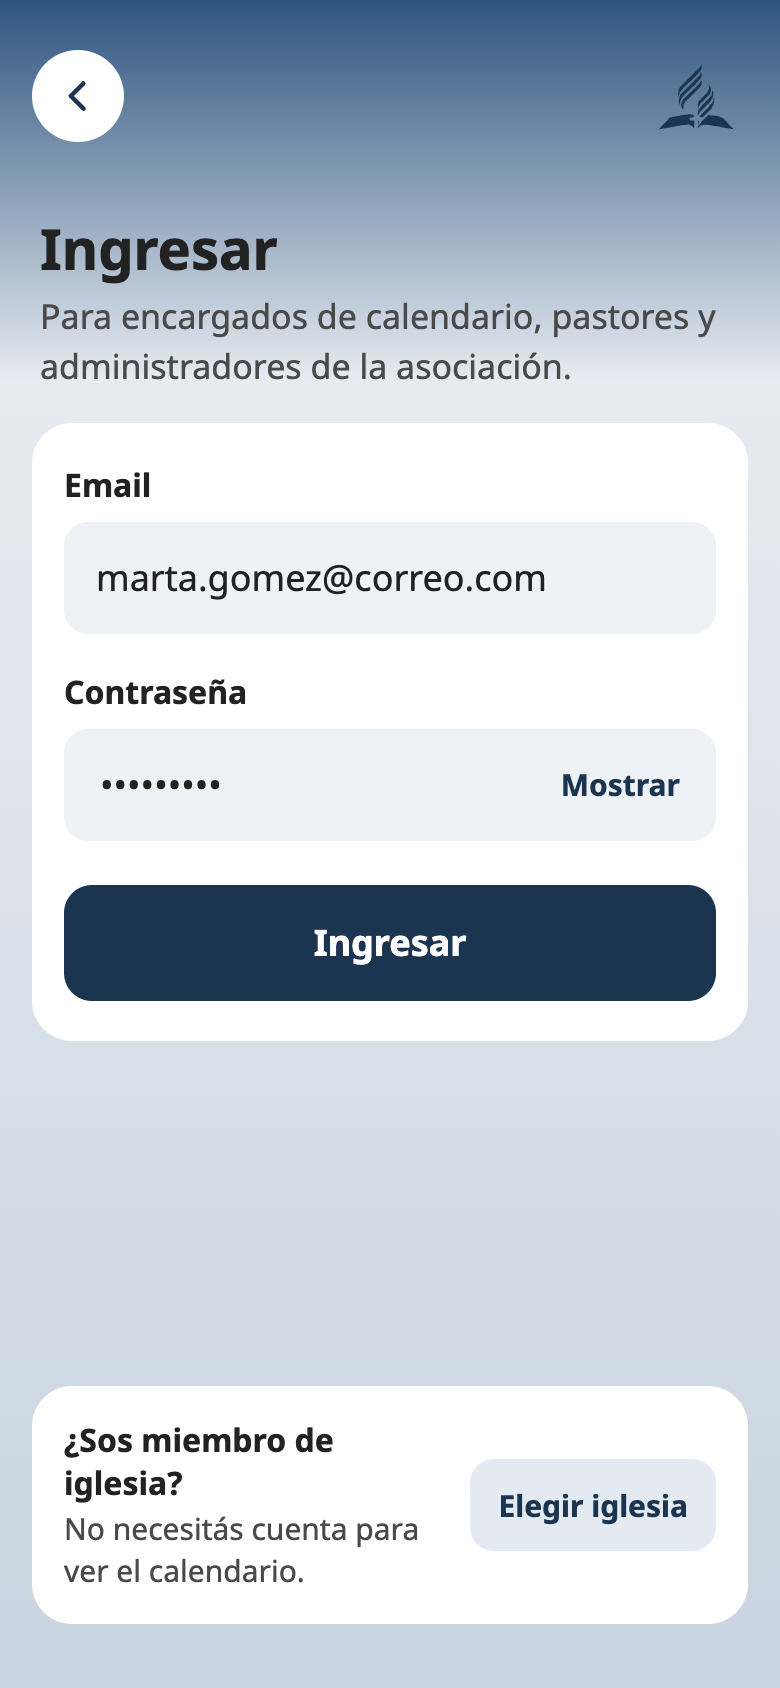
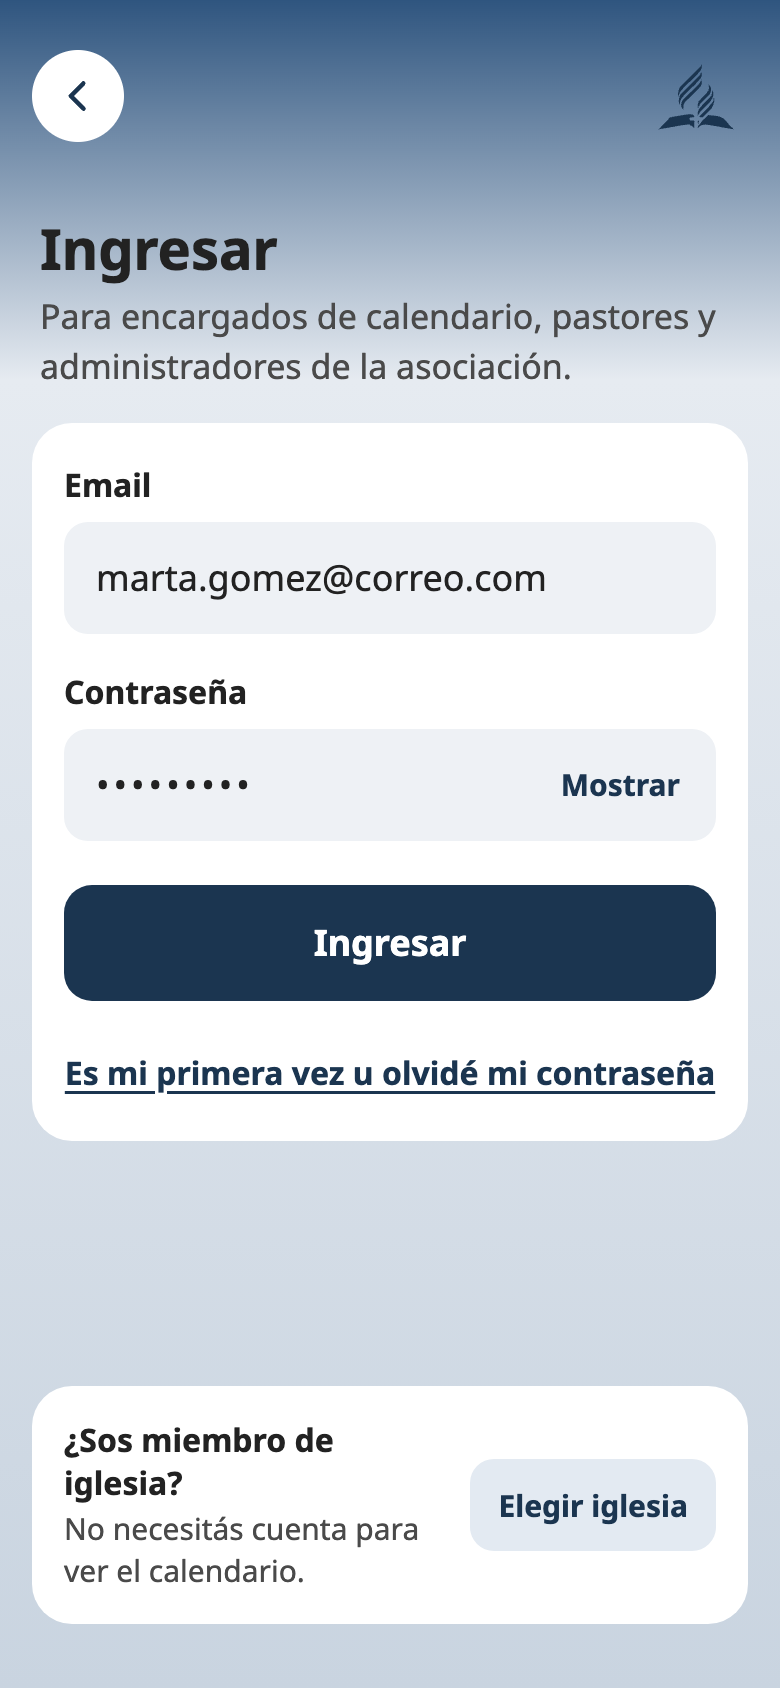
docs(diseno): add the first-access and recovery flow to Login (#37)
- Add the link "Es mi primera vez u olvidé mi contraseña" to Login.
- Add 02b-elegir-contrasena.html with its three steps: correo, 6-digit code
  and contraseña, with their captures.

Changed region(s): [[0.0308, 0.5853, 0.9846, 0.6777], [0.2462, 0.4621, 0.2769, 0.4929], [0.1846, 0.4621, 0.2154, 0.4929]]

diff --git a/diseno/pantallas/02b-elegir-contrasena.html b/diseno/pantallas/02b-elegir-contrasena.html
@@ -1,0 +1,109 @@
+<!doctype html>
+<html lang="es">
+<head>
+<meta charset="utf-8">
+<title>Elegir mi contraseña</title>
+<script src="./support.js"></script>
+</head>
+<body>
+<x-dc>
+<helmet>
+<link rel="stylesheet" href="https://fonts.googleapis.com/css2?family=Noto+Sans:wght@400;600;700&amp;family=Oswald:wght@500;600&amp;display=swap">
+<style>
+body{margin:0;font-family:'Noto Sans','Segoe UI',system-ui,sans-serif;color:#222222}
+a{color:#1B3550}a:hover{color:#10233A}
+</style>
+</helmet>
+<div style="width: 390px; height: 844px; box-sizing: border-box; background: linear-gradient(180deg, #2F557F 0px, #E6EBF1 190px, #C9D4E0 100%); display: flex; flex-direction: column; font-family: 'Noto Sans', 'Segoe UI', system-ui, sans-serif; color: #222222">
+
+  <header style="flex-shrink: 0; padding: 22px 16px 0; display: flex; align-items: center; gap: 12px">
+    <a href="Login.dc.html" aria-label="Volver" style="width: 46px; height: 46px; flex-shrink: 0; border-radius: 50%; background: #FFFFFF; display: flex; align-items: center; justify-content: center; color: #1B3550"><svg width="22" height="22" viewBox="0 0 24 24" fill="none" stroke="currentColor" stroke-width="2.4" stroke-linecap="round" stroke-linejoin="round"><path d="M15 5l-7 7 7 7"></path></svg></a>
+    <span style="flex: 1"></span>
+    <div style="width: 52px; height: 52px; display: flex; align-items: center; justify-content: center"><svg viewBox="0 0 329 295" width="38" height="34" role="img" aria-label="Iglesia Adventista del Séptimo Día" style="display: block; color: #1B3550"><path fill="currentColor" fill-rule="evenodd" d="M176.12 254.25C175.33 254.10 173.25 254.50 173.25 254.50C173.25 254.50 171.94 254.46 171.88 256.75C171.81 259.04 172.88 268.25 172.88 268.25C172.88 268.25 174.23 267.56 175.12 265.75C176.02 263.94 177.77 259.10 178.25 257.38C178.73 255.65 178.00 255.38 178.00 255.38C178.00 255.38 176.92 254.40 176.12 254.25ZM172.12 283.75C171.73 286.06 173.62 288.62 173.62 288.62C173.62 288.62 174.69 285.44 176.88 283.25C179.06 281.06 182.85 277.40 186.75 275.50C190.65 273.60 197.06 272.50 200.25 271.88C203.44 271.25 200.25 271.19 205.88 271.75C211.50 272.31 215.17 272.10 234.00 275.25C252.83 278.40 303.73 288.21 318.88 290.62C334.02 293.04 324.88 289.75 324.88 289.75C324.88 289.75 325.92 288.98 323.88 286.88C321.83 284.77 320.56 284.90 312.62 277.12C304.69 269.35 291.44 248.02 276.25 240.25C261.06 232.48 231.19 232.08 221.50 230.50C211.81 228.92 219.60 230.04 218.12 230.75C216.65 231.46 214.19 233.23 212.62 234.75C211.06 236.27 211.65 237.00 208.75 239.88C205.85 242.75 200.71 246.19 195.25 252.00C189.79 257.81 179.85 269.46 176.00 274.75C172.15 280.04 172.52 281.44 172.12 283.75ZM157.00 235.38C156.50 234.25 155.42 232.35 154.00 231.12C152.58 229.90 151.38 228.77 148.50 228.00C145.62 227.23 144.33 225.98 136.75 226.50C129.17 227.02 116.60 228.88 103.00 231.12C89.40 233.38 65.33 236.62 55.12 240.00C44.92 243.38 48.75 244.71 41.75 251.38C34.75 258.04 19.25 273.56 13.12 280.00C7.00 286.44 5.00 290.00 5.00 290.00C5.00 290.00 -9.65 293.77 9.75 290.75C29.15 287.73 99.94 274.73 121.38 271.88C142.81 269.02 134.25 272.60 138.38 273.62C142.50 274.65 143.00 275.60 146.12 278.00C149.25 280.40 157.12 288.00 157.12 288.00C157.12 288.00 157.50 256.00 157.50 256.00C157.50 256.00 157.31 254.48 154.38 254.12C151.44 253.77 139.88 253.88 139.88 253.88C139.88 253.88 136.92 251.85 136.62 249.62C136.33 247.40 138.12 240.50 138.12 240.50C138.12 240.50 151.85 240.19 155.00 239.75C158.15 239.31 156.67 238.60 157.00 237.88C157.33 237.15 157.50 236.50 157.00 235.38ZM242.38 155.75C242.38 155.75 241.00 156.12 241.00 156.12C241.00 156.12 240.75 164.04 239.38 167.75C238.00 171.46 236.25 173.71 232.75 178.38C229.25 183.04 227.04 186.50 218.38 195.75C209.71 205.00 187.21 226.85 180.75 233.88C174.29 240.90 179.60 236.88 179.62 237.88C179.65 238.88 180.88 239.88 180.88 239.88C180.88 239.88 188.73 239.69 191.25 239.25C193.77 238.81 189.35 243.58 196.00 237.25C202.65 230.92 223.96 209.58 231.12 201.25C238.29 192.92 237.00 191.71 239.00 187.25C241.00 182.79 242.31 178.75 243.12 174.50C243.94 170.25 244.00 164.88 243.88 161.75C243.75 158.62 242.38 155.75 242.38 155.75ZM236.12 122.50C236.12 122.50 234.75 122.75 234.75 122.75C234.75 122.75 234.54 133.12 233.12 138.00C231.71 142.88 233.73 143.15 226.25 152.00C218.77 160.85 196.56 182.04 188.25 191.12C179.94 200.21 179.04 202.38 176.38 206.50C173.71 210.62 173.02 212.44 172.25 215.88C171.48 219.31 171.62 224.29 171.75 227.12C171.88 229.96 173.00 232.88 173.00 232.88C173.00 232.88 177.90 223.33 181.38 218.62C184.85 213.92 187.54 211.06 193.88 204.62C200.21 198.19 212.56 187.73 219.38 180.00C226.19 172.27 231.62 163.06 234.75 158.25C237.88 153.44 237.31 154.19 238.12 151.12C238.94 148.06 239.67 144.23 239.62 139.88C239.58 135.52 238.46 127.90 237.88 125.00C237.29 122.10 236.12 122.50 236.12 122.50ZM218.38 97.25C218.38 97.25 220.46 108.48 220.62 112.25C220.79 116.02 220.96 116.31 219.38 119.88C217.79 123.44 216.17 127.69 211.12 133.62C206.08 139.56 194.92 149.19 189.12 155.50C183.33 161.81 179.21 167.10 176.38 171.50C173.54 175.90 172.90 178.04 172.12 181.88C171.35 185.71 171.58 191.50 171.75 194.50C171.92 197.50 173.12 199.88 173.12 199.88C173.12 199.88 176.67 190.90 179.88 186.25C183.08 181.60 185.92 178.65 192.38 172.00C198.83 165.35 213.02 152.52 218.62 146.38C224.23 140.23 224.25 138.56 226.00 135.12C227.75 131.69 228.60 129.58 229.12 125.75C229.65 121.92 229.96 116.04 229.12 112.12C228.29 108.21 225.92 104.73 224.12 102.25C222.33 99.77 218.38 97.25 218.38 97.25ZM189.00 74.88C189.00 74.88 188.65 82.38 176.50 95.75C164.35 109.12 127.85 143.19 116.12 155.12C104.40 167.06 108.67 163.12 106.12 167.38C103.58 171.62 101.90 177.17 100.88 180.62C99.85 184.08 99.69 184.98 100.00 188.12C100.31 191.27 101.25 196.38 102.75 199.50C104.25 202.62 109.00 206.88 109.00 206.88C109.00 206.88 110.62 205.75 110.62 205.75C110.62 205.75 109.65 203.31 109.62 200.25C109.60 197.19 109.77 190.85 110.50 187.38C111.23 183.90 112.44 182.02 114.00 179.38C115.56 176.73 109.60 182.06 119.88 171.50C130.15 160.94 164.48 127.79 175.62 116.00C186.77 104.21 184.40 104.85 186.75 100.75C189.10 96.65 189.38 95.69 189.75 91.38C190.12 87.06 189.00 74.88 189.00 74.88ZM189.38 41.12C189.38 41.12 189.46 47.08 175.12 62.75C160.79 78.42 117.27 119.65 103.38 135.12C89.48 150.60 94.00 149.40 91.75 155.62C89.50 161.85 89.69 167.65 89.88 172.50C90.06 177.35 92.88 184.75 92.88 184.75C92.88 184.75 94.88 183.62 94.88 183.62C94.88 183.62 95.42 174.31 96.00 171.25C96.58 168.19 96.31 168.88 98.38 165.25C100.44 161.62 97.19 161.67 108.38 149.50C119.56 137.33 153.08 105.00 165.50 92.25C177.92 79.50 179.21 77.46 182.88 73.00C186.54 68.54 186.35 67.98 187.50 65.50C188.65 63.02 189.44 62.19 189.75 58.12C190.06 54.06 189.38 41.12 189.38 41.12ZM189.25 7.25C189.25 7.25 192.85 9.81 177.62 26.38C162.40 42.94 112.02 91.88 97.88 106.62C83.73 121.38 94.71 109.98 92.75 114.88C90.79 119.77 87.02 129.94 86.12 136.00C85.23 142.06 87.38 151.25 87.38 151.25C87.38 151.25 90.12 140.71 93.12 135.12C96.12 129.54 92.33 131.62 105.38 117.75C118.42 103.88 157.88 65.94 171.38 51.88C184.88 37.81 183.29 38.29 186.38 33.38C189.46 28.46 189.40 26.73 189.88 22.38C190.35 18.02 189.25 7.25 189.25 7.25Z"></path></svg></div>
+  </header>
+
+  <div style="flex: 1; display: flex; flex-direction: column; gap: 16px; padding: 28px 16px 32px">
+    <div style="display: flex; flex-direction: column; gap: 6px; padding: 0 4px">
+      <span style="font-size: 15px; font-weight: 700; color: #2F557F">Paso {{ paso }} de 3</span>
+      <h1 style="margin: 0; font-size: 28px; line-height: 1.15; font-weight: 700">{{ titulo }}</h1>
+      <p style="margin: 0; font-size: 17px; line-height: 1.45; color: #4A4A4A">{{ texto }}</p>
+    </div>
+
+    <form style="display: flex; flex-direction: column; gap: 14px; padding: 20px 16px; border-radius: 20px; background: #FFFFFF">
+      <!-- Step 1: the correo. The request never tells whether the correo is registered. -->
+      <sc-if value="{{ paso1 }}" hint-placeholder-val="{{ true }}">
+        <div style="display: flex; flex-direction: column; gap: 8px">
+          <label for="email" style="font-size: 16px; font-weight: 700">Email</label>
+          <input id="email" type="email" value="marta.gomez@correo.com" autocomplete="email" style="height: 56px; box-sizing: border-box; border: 0; border-radius: 12px; background: #EEF1F5; padding: 0 16px; font-size: 18px; font-family: inherit; color: #222222">
+        </div>
+        <span style="font-size: 15px; line-height: 1.45; color: #4A4A4A">Usá el correo que le diste a tu iglesia o a la asociación.</span>
+      </sc-if>
+
+      <!-- Step 2: the 6-digit code, one box per digit. -->
+      <sc-if value="{{ paso2 }}" hint-placeholder-val="{{ false }}">
+        <div role="group" aria-labelledby="tCodigo" style="display: flex; flex-direction: column; gap: 8px">
+          <span id="tCodigo" style="font-size: 16px; font-weight: 700">Código</span>
+          <div style="display: flex; justify-content: space-between">
+            <sc-for list="{{ casillas }}" as="c" hint-placeholder-count="6">
+              <input type="text" inputmode="numeric" maxlength="1" value="{{ c.d }}" aria-label="Dígito {{ c.n }}" style="width: 46px; height: 58px; box-sizing: border-box; border: {{ c.borde }}; border-radius: 12px; background: #EEF1F5; text-align: center; font-size: 24px; font-weight: 700; font-family: inherit; color: #222222">
+            </sc-for>
+          </div>
+        </div>
+        <button type="button" style="align-self: center; min-height: 44px; border: 0; background: transparent; font-family: inherit; font-size: 16px; font-weight: 700; color: #1B3550; text-decoration: underline; text-underline-offset: 3px; cursor: pointer">No me llegó, mandarlo de nuevo</button>
+      </sc-if>
+
+      <!-- Step 3: the contraseña. Only a minimum of 8 characters; no repeat field, Mostrar/Ocultar instead. -->
+      <sc-if value="{{ paso3 }}" hint-placeholder-val="{{ false }}">
+        <div style="display: flex; flex-direction: column; gap: 8px">
+          <label for="pass" style="font-size: 16px; font-weight: 700">Contraseña nueva</label>
+          <div style="display: flex; align-items: center; height: 56px; box-sizing: border-box; border-radius: 12px; background: #EEF1F5; padding: 0 6px 0 16px; gap: 8px">
+            <input id="pass" type="{{ passType }}" value="abril2026" autocomplete="new-password" style="flex: 1; min-width: 0; border: 0; outline: none; background: transparent; font-size: 18px; font-family: inherit; color: #222222">
+            <button type="button" onClick="{{ toggle }}" style="min-height: 44px; padding: 0 12px; border: 0; background: transparent; font-family: inherit; font-size: 15px; font-weight: 700; color: #1B3550; cursor: pointer">{{ toggleLabel }}</button>
+          </div>
+        </div>
+        <span style="font-size: 15px; line-height: 1.45; color: #4A4A4A">Al menos 8 caracteres. No hace falta usar mayúsculas ni símbolos.</span>
+      </sc-if>
+
+      <sc-if value="{{ hayError }}" hint-placeholder-val="{{ false }}">
+        <span role="alert" style="font-size: 15px; line-height: 1.45; font-weight: 600; color: #B0103F">{{ error }}</span>
+      </sc-if>
+
+      <button type="button" onClick="{{ siguiente }}" style="display: flex; align-items: center; justify-content: center; min-height: 58px; margin-top: 4px; border: 0; border-radius: 14px; background: #1B3550; color: #FFFFFF; font-family: inherit; font-size: 18px; font-weight: 700; cursor: pointer">{{ boton }}</button>
+    </form>
+  </div>
+</div>
+</x-dc>
+<script type="text/x-dc" data-dc-script data-props='{"$preview":{"width":390,"height":844}}'>
+class Component extends DCLogic {
+  renderVals() {
+    const st = this.state || {};
+    const paso = st.paso || 1;
+    const show = st.show !== false;
+    const PASOS = {
+      1: { titulo: 'Elegir mi contraseña', texto: 'Sirve para la primera vez y si olvidaste tu contraseña. Te mandamos un código por correo.', boton: 'Enviar código' },
+      2: { titulo: 'Ingresá el código', texto: 'Si marta.gomez@correo.com está registrado, te llega un código de 6 dígitos. Puede tardar unos minutos: revisá también el correo no deseado.', boton: 'Continuar' },
+      3: { titulo: 'Elegí tu contraseña', texto: 'Con esta contraseña vas a ingresar de ahora en adelante.', boton: 'Guardar e ingresar' }
+    };
+    // One error per step, shown under the field.
+    const ERRORES = {
+      1: 'Revisá el correo: falta algo o tiene un error.',
+      2: 'El código no es correcto o ya venció. Pedí uno nuevo.',
+      3: 'Tiene que tener al menos 8 caracteres.'
+    };
+    const digitos = ['4', '8', '2', '0', '', ''];
+    const casillas = digitos.map((d, k) => ({ d, n: k + 1, borde: k === 4 ? '2px solid #2F557F' : '0' }));
+    return {
+      paso, ...PASOS[paso],
+      paso1: paso === 1, paso2: paso === 2, paso3: paso === 3,
+      casillas,
+      hayError: !!st.error, error: ERRORES[paso],
+      passType: show ? 'text' : 'password',
+      toggleLabel: show ? 'Ocultar' : 'Mostrar',
+      toggle: () => this.setState({ show: !show }),
+      siguiente: () => this.setState({ paso: Math.min(paso + 1, 3), error: false })
+    };
+  }
+}
+</script>
+</body>
+</html>

diff --git a/diseno/pantallas/02-login.html b/diseno/pantallas/02-login.html
@@ -41,6 +41,8 @@ a{color:#1B3550}a:hover{color:#10233A}
         </div>
       </div>
       <a href="CalendarioPastor.dc.html" style="display: flex; align-items: center; justify-content: center; min-height: 58px; margin-top: 4px; border-radius: 14px; background: #1B3550; color: #FFFFFF; font-size: 18px; font-weight: 700; text-decoration: none">Ingresar</a>
+      <!-- First access and password recovery share one flow (#13): 02b-elegir-contrasena.html. -->
+      <a href="ElegirContrasena.dc.html" style="display: flex; align-items: center; justify-content: center; min-height: 48px; margin-top: -6px; font-size: 16px; font-weight: 700; color: #1B3550; text-decoration: underline; text-underline-offset: 3px">Es mi primera vez u olvidé mi contraseña</a>
     </form>
 
     <div style="flex: 1"></div>

diff --git a/diseno/README.md b/diseno/README.md
@@ -5,6 +5,7 @@ Diseño aprobado de "Agenda de iglesia". Es la referencia visual para implementa
 ## Qué hay acá
 - `pantallas/` — una página HTML por pantalla (mockups de 390 px de ancho). Son **especificación**, no código para reutilizar: tomar de ahí colores, tamaños, espaciados, textos y estructura, y traducirlos a componentes RN.
   - Están en un formato propio del editor de diseño (`<x-dc>`, `{{ variables }}`, `<sc-if>`, `<sc-for>`). Los datos de ejemplo y la lógica de cada pantalla están en el `<script>` del final.
+  - `02b-elegir-contrasena.html` es el flujo de primer acceso y recuperación ("Es mi primera vez u olvidé mi contraseña"): una pantalla con tres pasos, `paso` 1 a 3, con sus capturas `2b`, `2c` y `2d`.
   - `04b-calendario-pastor.html` reutiliza `04a-calendario.html` con `rol="pastor"`: es la misma pantalla con filtro por iglesia, botón "Nuevo evento" y la pestaña Gestión.
 - `capturas/` — PNG de cada pantalla (exportar desde el lienzo de diseño: Share › Export).
   - `6b · Crear evento (dueño).png` es la hoja que se abre al tocar "Dueño" en Crear evento: los niveles que abarcan los cargos de quien carga, agrupados en Asociación, Distrito e Iglesias.
